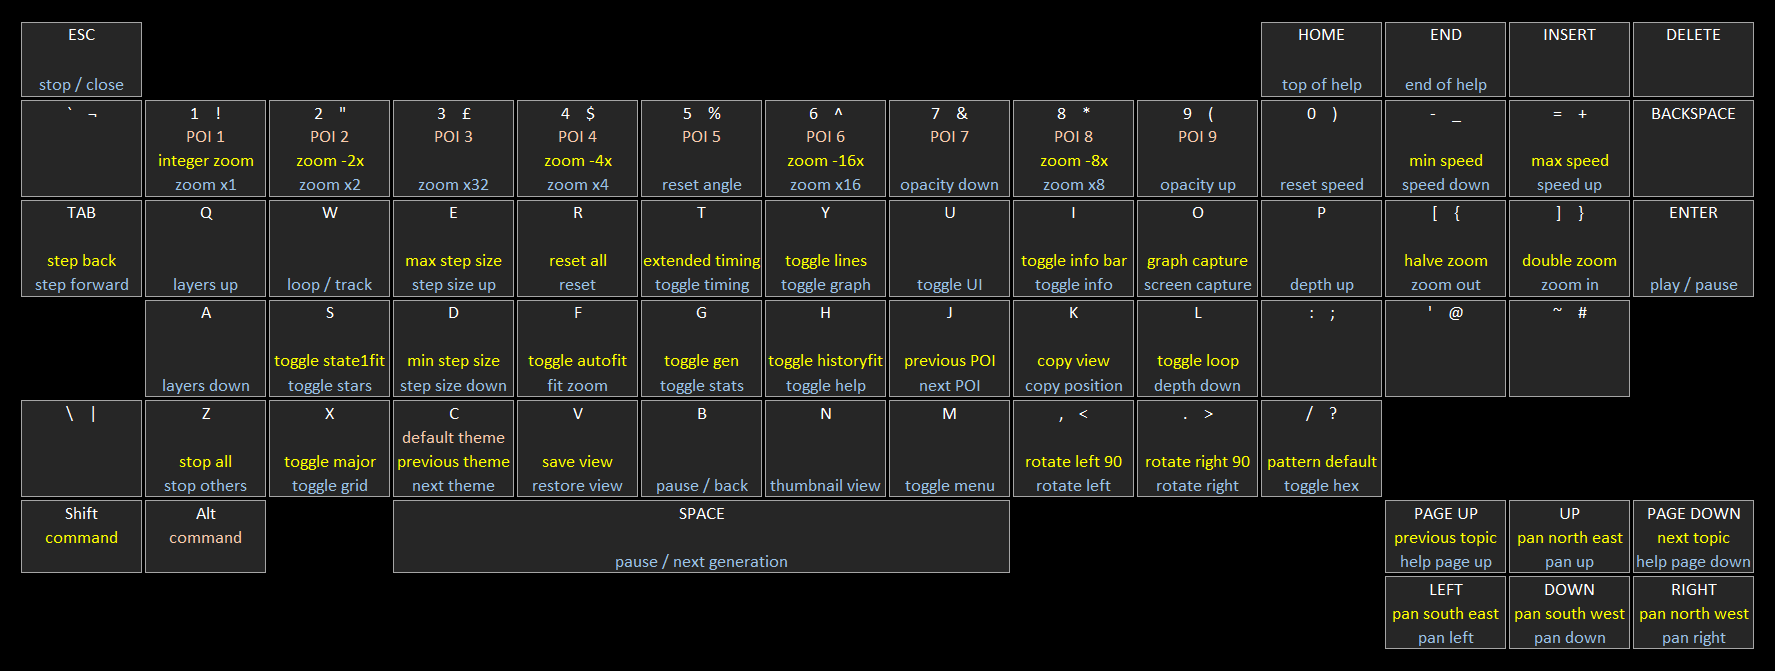
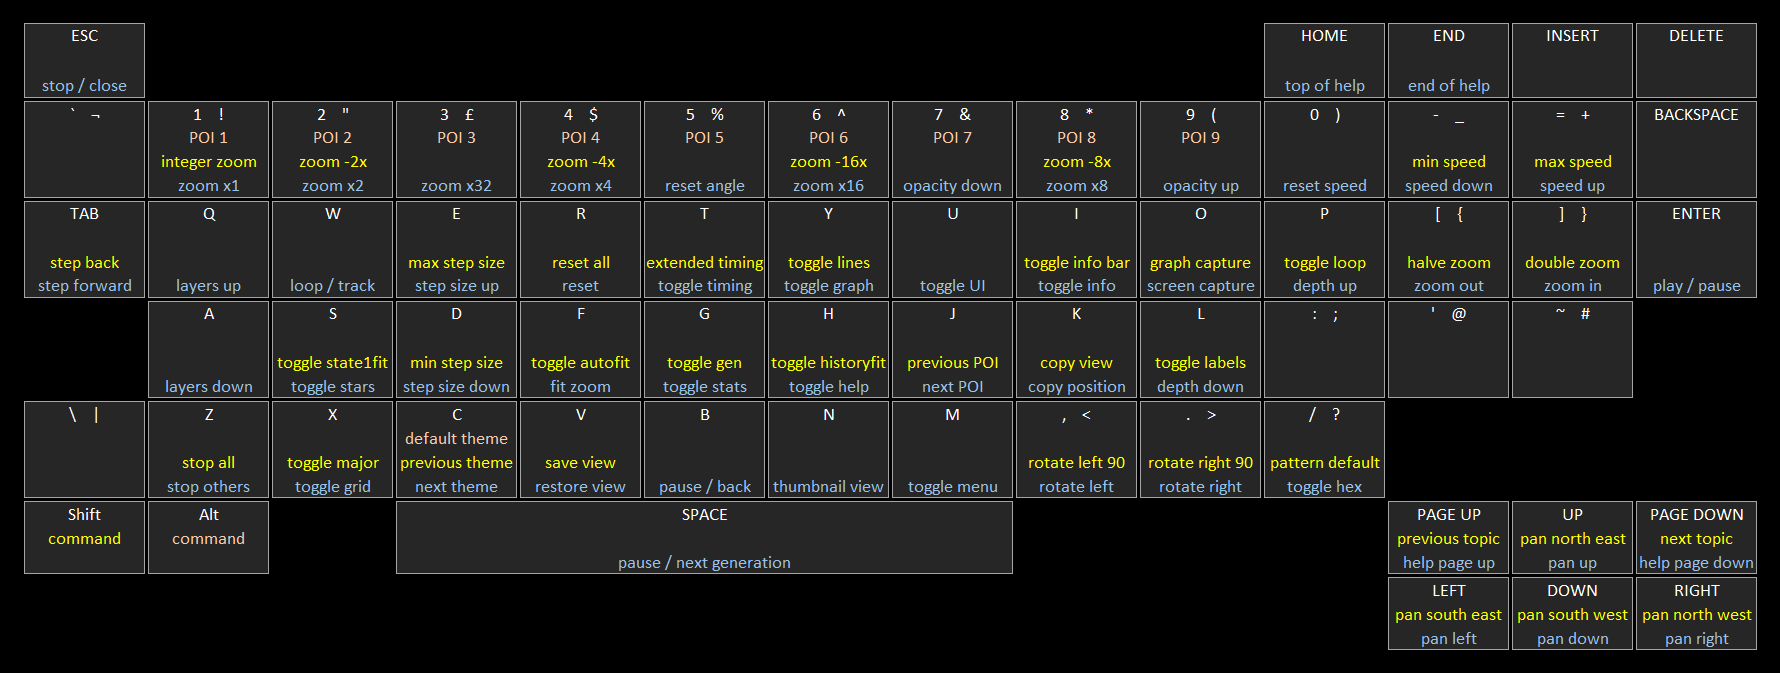
various fixes

diff --git a/js/lifeview.js b/js/lifeview.js
@@ -149,7 +149,7 @@
 		/** @const {string} */ versionName : "LifeViewer Plugin",
 
 		// build version
-		/** @const {number} */ versionBuild : 277,
+		/** @const {number} */ versionBuild : 278,
 
 		// author
 		/** @const {string} */ versionAuthor : "Chris Rowett",
@@ -227,7 +227,7 @@
 
 		// min and max label size
 		/** @const {number} */ minLabelSize : 4,
-		/** @const {number} */ maxLabelSize : 32,
+		/** @const {number} */ maxLabelSize : 128,
 
 		// label font family
 		/** @const {string} */ labelFontFamily : "Arial",
@@ -445,6 +445,9 @@
 		this.randomSeed = Date.now().toString();
 		this.randomSeedCustom = false;
 
+		// whether labels displayed
+		this.showLabels = true;
+
 		// whether population graph displayed
 		this.popGraph = false;
 
@@ -581,7 +584,7 @@
 		this.errorsFontColour = ViewConstants.errorsFontColour;
 
 		// boundary colour (for help display)
-		this.customBoundaryColour = [80, 80, 80];
+		this.customBoundaryColour = [96, 96, 96];
 
 		// window title element
 		this.titleElement = null;
@@ -2243,7 +2246,9 @@
 		}
 
 		// draw any labels
-		me.waypointManager.drawLabels(me);
+		if (me.showLabels) {
+			me.waypointManager.drawLabels(me);
+		}
 
 		// draw population graph if required
 		if (me.popGraph) {
@@ -2431,7 +2436,7 @@
 		this.layersItem.deleted = hide;
 		this.fitButton.deleted = hide;
 		this.shrinkButton.deleted = hide || !this.thumbnailEverOn;
-		this.closeButton.deleted = hide || !this.isInPopup;
+		this.closeButton.deleted = !this.isInPopup;
 		this.fpsButton.deleted = hide;
 		this.hexButton.deleted = hide;
 		this.graphButton.deleted = hide;
@@ -4511,15 +4516,24 @@
 				}
 				break;
 
-			// p for increase depth
+			// p for increase depth or toggle loop
 			case 80:
-				// disable depth in multi-state mode
-				if (!me.multiStateView) {
-					if (!me.depthItem.locked) {
-						if (me.depthItem.current[0] <= 0.99) {
-							me.depthItem.current = me.viewDepthRange([me.depthItem.current[0] + 0.01, me.depthItem.current[1]], true, me);
-						} else {
-							me.depthItem.current = me.viewDepthRange([1, me.depthItem.current[1]], true, me);
+				// check for shift
+				if (event.shiftKey) {
+					if (me.loopDefined !== -1) {
+						// toggle loop mode
+						me.loopDisabled = !me.loopDisabled;
+						me.loopIndicator.current = [me.loopDisabled];
+					}
+				} else {
+					// disable depth in multi-state mode
+					if (!me.multiStateView) {
+						if (!me.depthItem.locked) {
+							if (me.depthItem.current[0] <= 0.99) {
+								me.depthItem.current = me.viewDepthRange([me.depthItem.current[0] + 0.01, me.depthItem.current[1]], true, me);
+							} else {
+								me.depthItem.current = me.viewDepthRange([1, me.depthItem.current[1]], true, me);
+							}
 						}
 					}
 				}
@@ -4529,11 +4543,7 @@
 			case 76:
 				// check for shift
 				if (event.shiftKey) {
-					if (me.loopDefined !== -1) {
-						// toggle loop mode
-						me.loopDisabled = !me.loopDisabled;
-						me.loopIndicator.current = [me.loopDisabled];
-					}
+					me.showLabels = !me.showLabels;
 				} else {
 					// disable depth in multi-state mode
 					if (!me.multiStateView) {
@@ -9480,6 +9490,34 @@
 		this.thumbnail = true;
 	};
 
+	// clear pattern data
+	View.prototype.clearPatternData = function() {
+		// clear pattern data
+		this.genDefined = false;
+		this.genOffset = 0;
+		this.posDefined = false;
+		this.posXOffset = 0;
+		this.posYOffset = 0;
+		this.patternRuleName = "";
+		this.patternAliasName = "";
+		this.patternName = "";
+		this.patternOriginator = "";
+		this.patternWidth = 0;
+		this.patternHeight = 0;
+		this.patternStates = 0;
+		this.patternUsedStates = 0;
+		this.patternFormat = "(none)";
+		this.engine.isLifeHistory = false;
+		this.engine.isHex = false;
+		this.engine.isVonNeumann = false;
+		this.engine.wolframRule = -1;
+		this.engine.patternDisplayMode = false;
+		this.engine.multiNumStates = -1;
+		this.engine.boundedGridType = -1;
+		this.engine.isHROT = false;
+		this.engine.multiState = false;
+	};
+
 	// start the viewer from a supplied pattern string
 	View.prototype.startViewer = function(patternString, ignoreThumbnail) {
 		var pattern = null,
@@ -9581,31 +9619,11 @@
 				this.patternStateCount[i] = PatternManager.stateCount[i];
 			}
 		} else {
-			// clear pattern data
-			this.genDefined = false;
-			this.genOffset = 0;
-			this.posDefined = false;
-			this.posXOffset = 0;
-			this.posYOffset = 0;
-			this.patternRuleName = "";
-			this.patternAliasName = "";
-			this.patternName = "";
-			this.patternOriginator = "";
-			this.patternWidth = 0;
-			this.patternHeight = 0;
-			this.patternStates = 0;
-			this.patternUsedStates = 0;
-			this.patternFormat = "(none)";
-			this.engine.isLifeHistory = false;
-			this.engine.isHex = false;
-			this.engine.isVonNeumann = false;
-			this.engine.wolframRule = -1;
-			this.engine.patternDisplayMode = false;
-			this.engine.multiNumStates = -1;
-			this.engine.boundedGridType = -1;
-			this.engine.isHROT = false;
-			this.engine.multiState = false;
+			this.clearPatternData();
 		}
+
+		// show labels
+		this.showLabels = true;
 
 		// do not display population graph
 		this.popGraph = false;
@@ -9916,6 +9934,14 @@
 						this.displayHeight = ViewConstants.minMenuHeight + 80;
 					}
 				}
+			}
+
+			// check pattern size (script command may have increased maximum allowed size)
+			if (pattern.width > this.engine.maxGridSize || pattern.height >= this.engine.maxGridSize) {
+				this.failureReason = "Pattern too big (maximum " + this.engine.maxGridSize + "x" + this.engine.maxGridSize + ")";
+				this.tooBig = true;
+				this.executable = false;
+				this.clearPatternData();
 			}
 
 			// set the graph UI control

diff --git a/js/life.js b/js/life.js
@@ -1786,11 +1786,10 @@
 		}
 
 		// create bounded grid border colour if specified
-		if (this.boundedGridType !== -1) {
+		if (this.boundedGridType !== -1 && this.multiNumStates < (256 - drawHistoryOffset)) {
 			if (this.littleEndian) {
 				pixelColours[LifeConstants.boundedBorderColour] = 0xff808080;
-			}
-			else {
+			} else {
 				pixelColours[LifeConstants.boundedBorderColour] = 0x808080ff;
 			}
 		}
@@ -8116,14 +8115,11 @@
 		    tileStartRow = 0,
 			tileEndRow = tileRows,
 			
-			// whether to draw history
-			drawHistory = this.drawHistory,
-
 		    // maximum generations state
-		    maxGenState = this.multiNumStates - (drawHistory ? 0 : 1),
+		    maxGenState = this.multiNumStates - (this.drawHistory ? 0 : 1),
 
 			// maximum dead state number (0 normally - 1 if drawing history),
-			deadState = (drawHistory ? 1 : 0);
+			deadState = (this.drawHistory ? 1 : 0);
 
 		// clear anything alive
 		this.anythingAlive = 0;
@@ -8525,7 +8521,10 @@
 
 		    // starting and ending tile row
 		    tileStartRow = 0,
-		    tileEndRow = tileRows;
+			tileEndRow = tileRows,
+
+			// maximum dead state number (0 normally - 1 if drawing history),
+			deadState = (this.drawHistory ? 1 : 0);
 
 		// clear anything alive
 		this.generationsAlive = 0;
@@ -8575,7 +8574,7 @@
 									value = colourGridRow[cr];
 
 									// process the Generations rule
-									if (value > 0) {
+									if (value > deadState) {
 										value -= 1;
 									}
 

diff --git a/js/patterns.js b/js/patterns.js
@@ -110,8 +110,8 @@
 		negativeBit : 13,
 
 		// maximum width and height of patterns
-		maxWidth : 8192,
-		maxHeight : 8192,
+		maxWidth : 16384,
+		maxHeight : 16384,
 
 		// maxmimum states
 		maxStates : 256,
